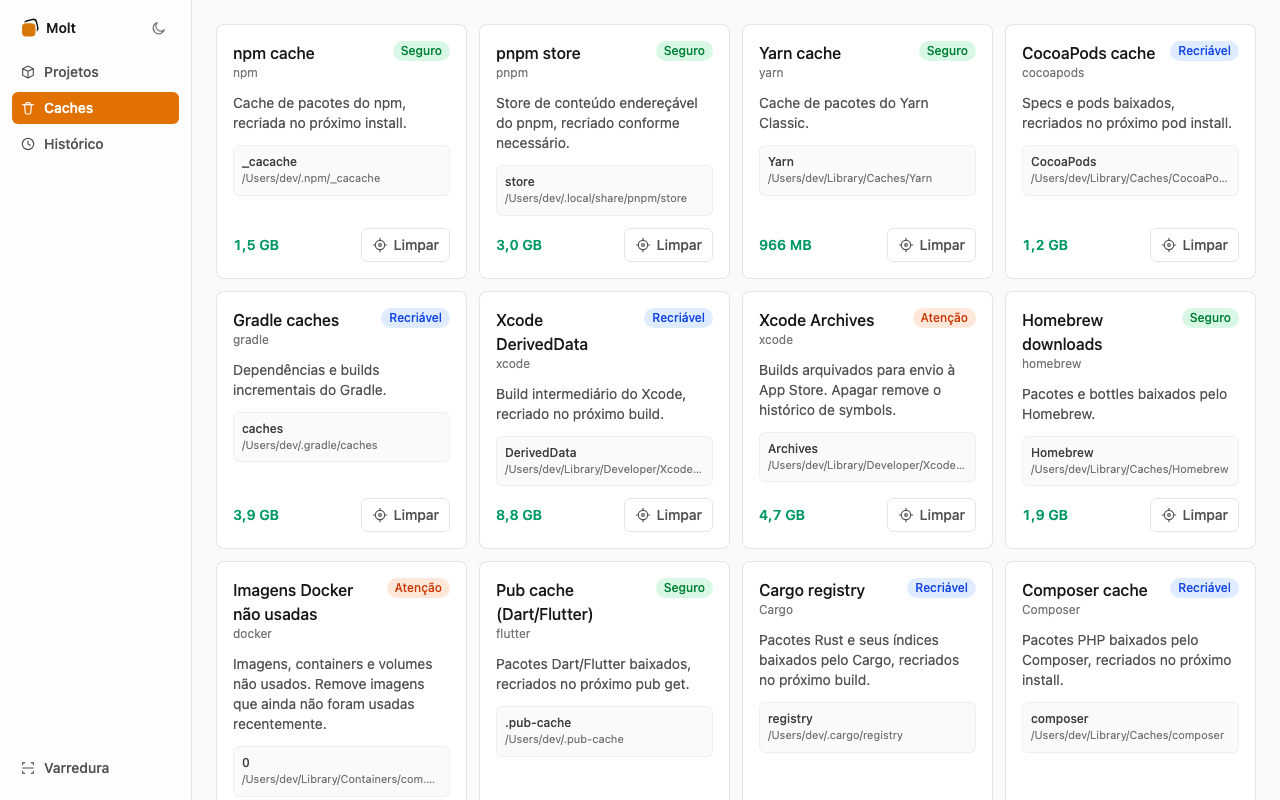
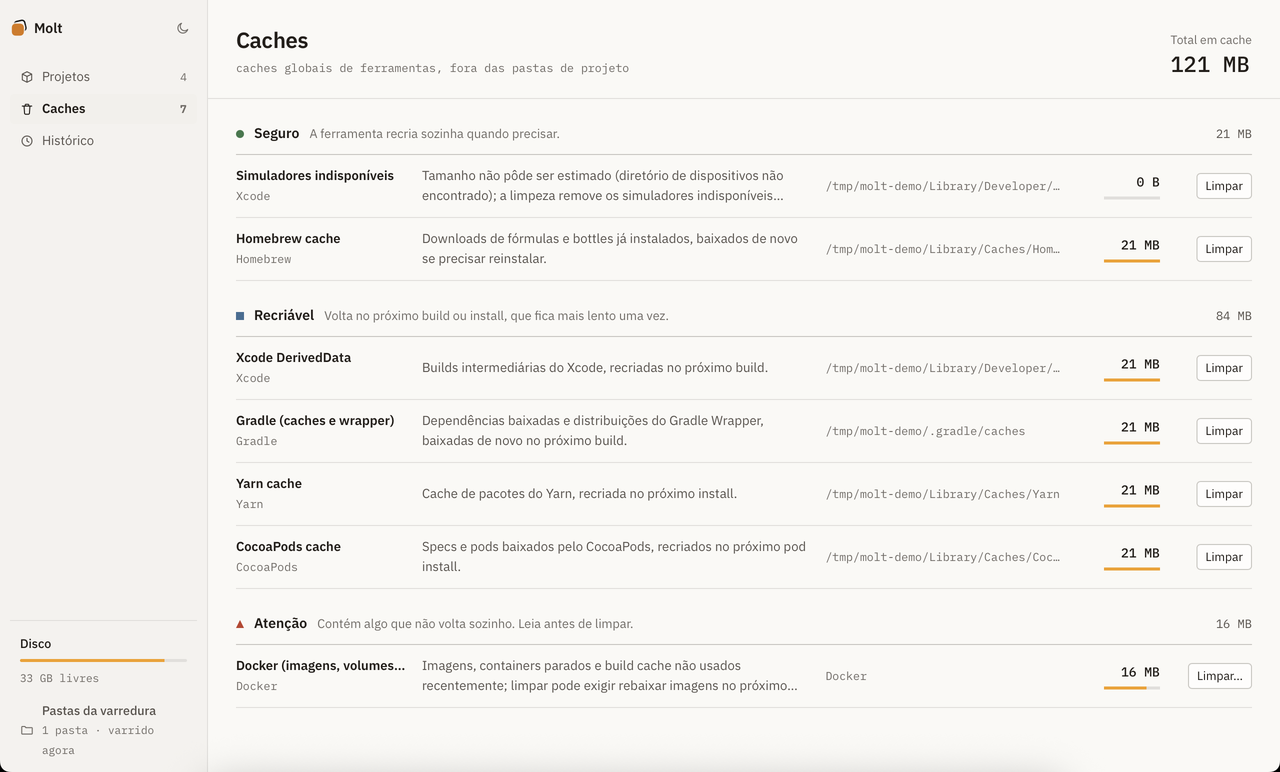
docs(release): atualiza README e screenshots para abertura publica (#29)
Verificacao completa antes de tornar o repo publico: prints do README
agora refletem a UI atual (indicador de disco na sidebar, tema
claro/escuro), cobertura de funcionalidades do README atualizada,
pasta de design handoff nao versionada removida, .claude/ ignorado.

Tambem corrige dois achados da verificacao:
- teste intermitente em commands_smoke.rs (disputa de thread pool
  entre varreduras reais rodando em paralelo no harness de testes)
- vazamento de caminho pessoal real em um teste de format.ts

diff --git a/src/lib/format.test.ts b/src/lib/format.test.ts
@@ -59,11 +59,11 @@ describe("daysSince", () => {
 
 describe("pathBasename", () => {
   it("extrai o último segmento de um caminho", () => {
-    expect(pathBasename("/Users/daniel/www/portifolio/node_modules")).toBe("node_modules");
+    expect(pathBasename("/Users/dev/code/project/node_modules")).toBe("node_modules");
   });
 
   it("ignora barras finais", () => {
-    expect(pathBasename("/Users/daniel/www/portifolio/node_modules/")).toBe("node_modules");
+    expect(pathBasename("/Users/dev/code/project/node_modules/")).toBe("node_modules");
   });
 
   it("devolve o próprio valor quando não há barra", () => {

diff --git a/src-tauri/tests/commands_smoke.rs b/src-tauri/tests/commands_smoke.rs
@@ -8,6 +8,14 @@ use molt_lib::model::{CleanupRequest, CleanupTarget, ScanRequest};
 use tauri::test::{mock_builder, mock_context, noop_assets, MockRuntime};
 use tauri::{App, Manager};
 
+/// Força os testes deste arquivo a rodar um de cada vez. `scan_projects` e
+/// `list_caches` disparam varreduras reais via jwalk/rayon sobre o pool global
+/// de threads; rodando em paralelo (padrão do harness do Rust), ocasionalmente
+/// uma varredura observa zero resultados por uma corrida no pool compartilhado
+/// — não reproduz isolado, só quando mais de um teste deste arquivo varre ao
+/// mesmo tempo. O app real nunca dispara duas varreduras concorrentes.
+static TEST_LOCK: Mutex<()> = Mutex::new(());
+
 fn build_app() -> App<MockRuntime> {
     mock_builder()
         .manage(Mutex::new(AppState::default()))
@@ -23,6 +31,9 @@ fn build_app() -> App<MockRuntime> {
 
 #[test]
 fn scan_projects_finds_fixture_project_and_tracks_allowed_paths() {
+    let _guard = TEST_LOCK
+        .lock()
+        .unwrap_or_else(|poisoned| poisoned.into_inner());
     let home = tempfile::tempdir().unwrap();
     molt_lib::testkit::fixture_node_project(home.path(), "app", 1).unwrap();
 
@@ -53,6 +64,9 @@ fn scan_projects_finds_fixture_project_and_tracks_allowed_paths() {
 
 #[test]
 fn list_caches_returns_real_catalog() {
+    let _guard = TEST_LOCK
+        .lock()
+        .unwrap_or_else(|poisoned| poisoned.into_inner());
     let app = build_app();
     let state = app.state::<Mutex<AppState>>();
 
@@ -63,6 +77,9 @@ fn list_caches_returns_real_catalog() {
 
 #[test]
 fn run_cleanup_rejects_target_outside_allowed_paths() {
+    let _guard = TEST_LOCK
+        .lock()
+        .unwrap_or_else(|poisoned| poisoned.into_inner());
     let app = build_app();
     let state = app.state::<Mutex<AppState>>();
 
@@ -83,6 +100,9 @@ fn run_cleanup_rejects_target_outside_allowed_paths() {
 
 #[test]
 fn reveal_in_finder_opens_without_panicking() {
+    let _guard = TEST_LOCK
+        .lock()
+        .unwrap_or_else(|poisoned| poisoned.into_inner());
     let result = molt_lib::commands::reveal_in_finder("/tmp".into());
     assert!(result.is_ok());
 }

diff --git a/README.md b/README.md
@@ -52,9 +52,14 @@ conhecidos, e só apaga o que você confirmar explicitamente.
    Go build cache, Docker) com o tamanho de cada um.
 4. **Limpeza segura** — você escolhe o que apagar; o Molt sempre manda para a Lixeira
    do macOS (nunca `rm -rf`), nunca segue symlinks e recusa apagar um projeto com
-   mudanças não commitadas, a menos que você confirme explicitamente.
+   mudanças não commitadas, a menos que você confirme explicitamente. Dá pra ignorar
+   um projeto específico, removendo-o das próximas varreduras.
 5. **Histórico** — toda limpeza fica registrada, com o que foi apagado e quanto espaço
    foi liberado.
+6. **Indicador de disco** — a barra lateral mostra o espaço livre/ocupado do volume em
+   tempo real e, depois de cada limpeza, quanto espaço acabou de ser liberado.
+
+Tema claro e escuro, com alternância pela barra lateral.
 
 ## Como usar
 
